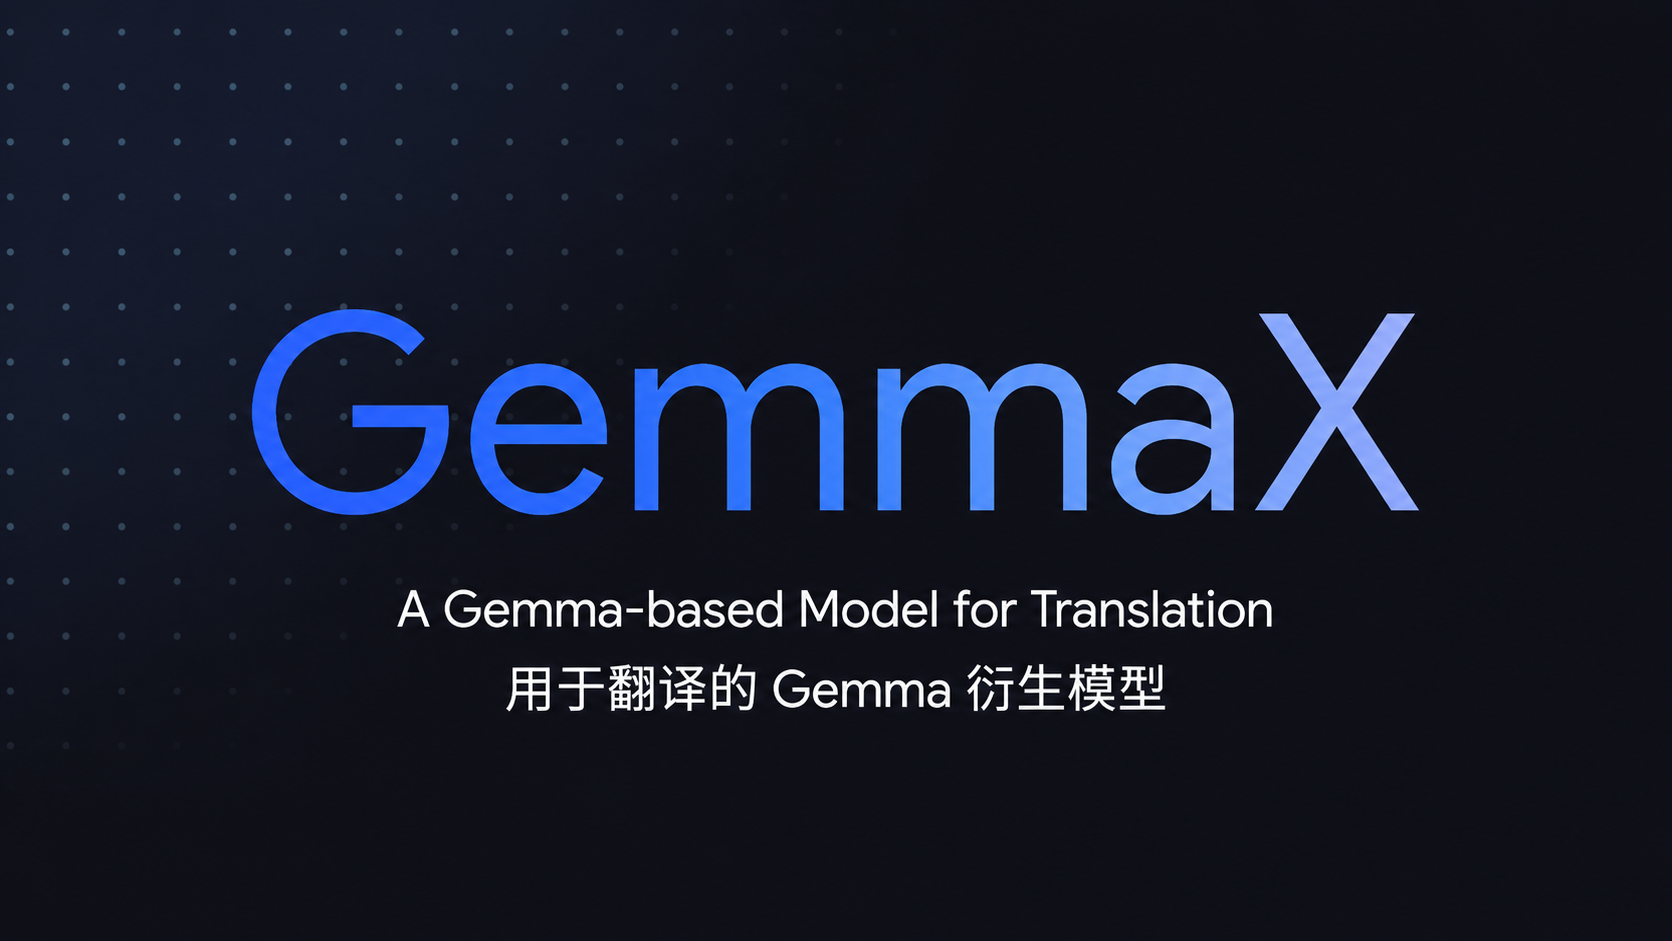
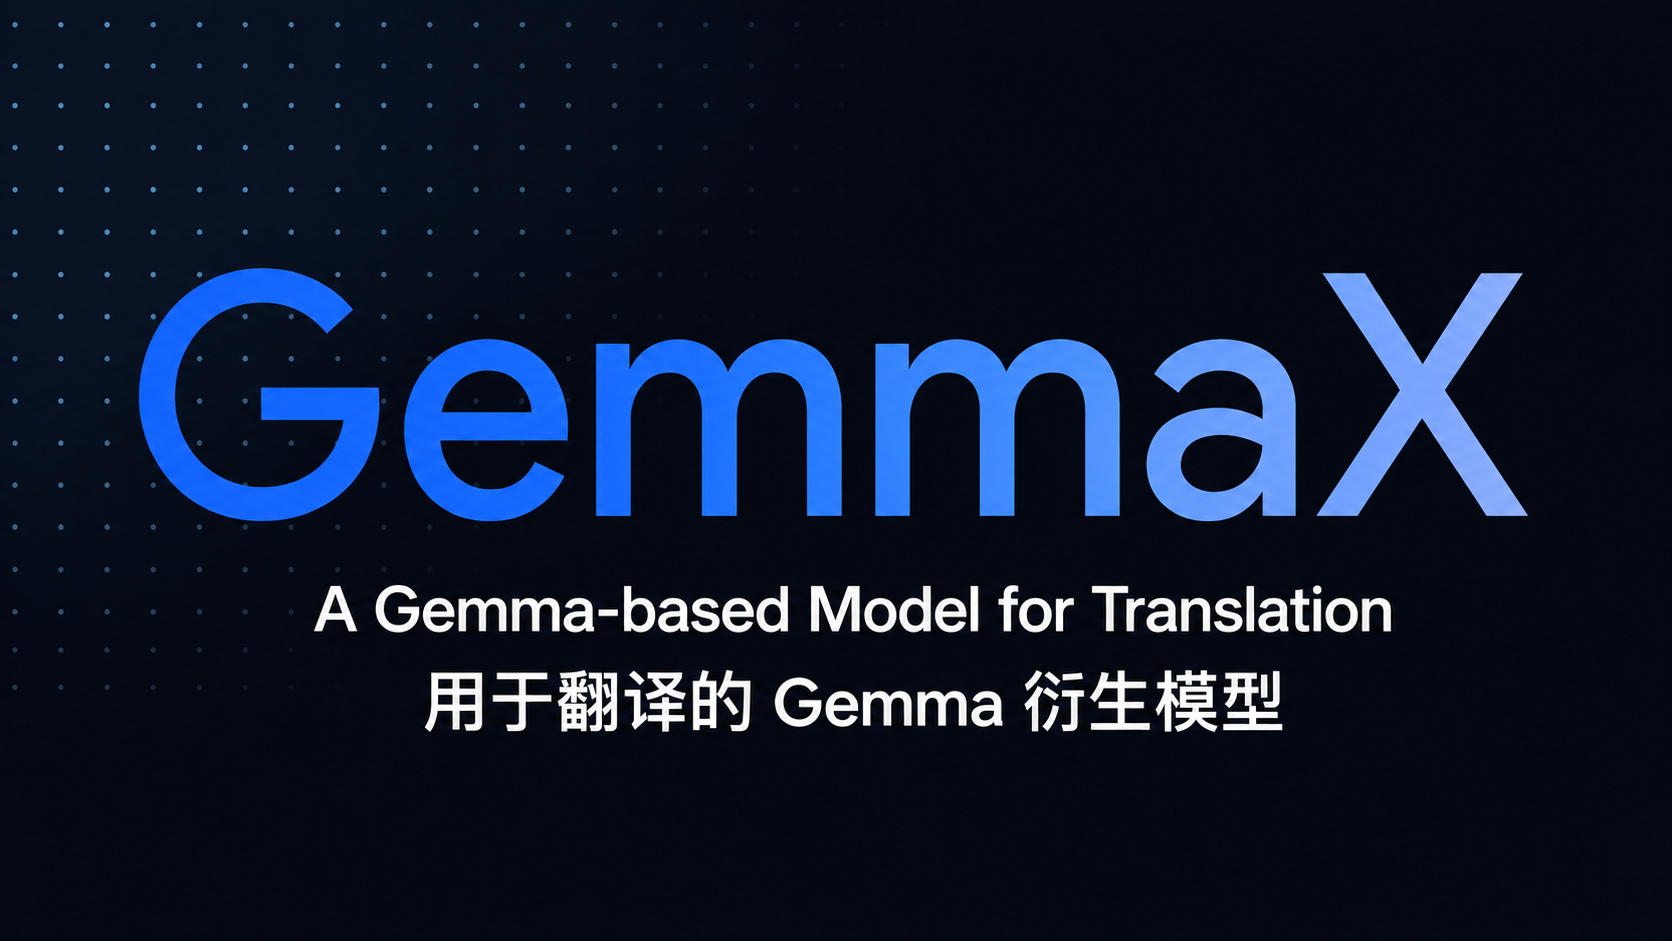
Refine README hero: larger side-by-side images and upgrade note
Enlarge the paired images to 450px, refresh both figures, and reword the
upgrade banner to highlight MiLMMT-v1.0 as the strongest translation model
with 46-language coverage across two lines.

Changed region(s): [[0.0622, 0.2774, 0.933, 0.5547], [0.1866, 0.6164, 0.8397, 0.678], [0.2488, 0.7088, 0.7775, 0.8013]]

diff --git a/README.md b/README.md
@@ -3,11 +3,12 @@
 # GemmaX / MiLMMT: Multilingual Translator based on Gemma Open Models
 
 <table align="center"><tr>
-<td><img src='/images/gemmax.png' width='400' height='225'></td>
-<td><img src='/images/milmmt.png' width='400' height='225'></td>
+<td><img src='/images/gemmax.png' width='450' height='253'></td>
+<td><img src='/images/milmmt.png' width='450' height='253'></td>
 </tr></table>
 
-> **🚀 GemmaX has been upgraded to MiLMMT-v1.0!** Supported languages have expanded from **28** to **46**!
+> **🚀 GemmaX has been upgraded to MiLMMT-v1.0 — our most powerful translation model to date!** <br>
+> **Supported languages have expanded from 28 to 46!**
 
 **🎮 [Try the live demo on HuggingFace](https://huggingface.co/spaces/xiaomi-research/milmmt-46-translation)**
 
